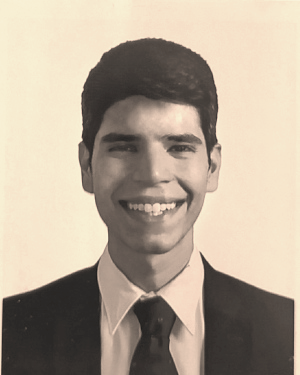
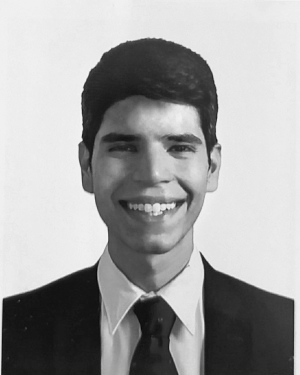
Fix-texts14

diff --git a/ingles/associates.html b/ingles/associates.html
@@ -141,7 +141,7 @@
             <div class="images">
               <img
                 class="img1 img-fluid pt-5"
-                src="../assets/images/asociado1.png"
+                src="../assets/images/asociado1.jpg"
                 alt="free Template"
               />
             </div>
@@ -175,7 +175,7 @@
             <div class="images">
               <img
                 class="img1 img-fluid pt-5"
-                src="../assets/images/asociado2.png"
+                src="../assets/images/asociado2.jpg"
                 alt="free Template"
               />
             </div>
@@ -208,7 +208,7 @@
             <div class="images">
               <img
                 class="img1 img-fluid pt-5"
-                src="../assets/images/asociado3.png"
+                src="../assets/images/asociado3.jpg"
                 alt="free Template"
               />
             </div>

diff --git a/asociados.html b/asociados.html
@@ -139,7 +139,7 @@
             <div class="images">
               <img
                 class="img1 img-fluid pt-5"
-                src="assets/images/asociado1.png"
+                src="assets/images/asociado1.jpg"
                 alt="free Template"
               />
             </div>
@@ -173,7 +173,7 @@
             <div class="images">
               <img
                 class="img1 img-fluid pt-5"
-                src="assets/images/asociado2.png"
+                src="assets/images/asociado2.jpg"
                 alt="free Template"
               />
             </div>
@@ -208,7 +208,7 @@
             <div class="images">
               <img
                 class="img1 img-fluid pt-5"
-                src="assets/images/asociado3.png"
+                src="assets/images/asociado3.jpg"
                 alt="free Template"
               />
             </div>

diff --git a/ingles/lawyers.html b/ingles/lawyers.html
@@ -141,7 +141,7 @@
             <div class="images">
               <img
                 class="img1 img-fluid pt-5"
-                src="../assets/images/abogado1.png"
+                src="../assets/images/abogado1.jpg"
                 alt="free Template"
               />
             </div>
@@ -165,7 +165,7 @@
             <div class="images">
               <img
                 class="img1 img-fluid pt-5"
-                src="../assets/images/abogado2.png"
+                src="../assets/images/abogado2.jpg"
                 alt="free Template"
               />
             </div>

diff --git a/abogados.html b/abogados.html
@@ -139,7 +139,7 @@
             <div class="images">
               <img
                 class="img1 img-fluid pt-5"
-                src="assets/images/abogado1.png"
+                src="assets/images/abogado1.jpg"
                 alt="free Template"
               />
             </div>
@@ -163,7 +163,7 @@
             <div class="images">
               <img
                 class="img1 img-fluid pt-5"
-                src="assets/images/abogado2.png"
+                src="assets/images/abogado2.jpg"
                 alt="free Template"
               />
             </div>

diff --git a/index.html b/index.html
@@ -358,7 +358,7 @@
                         <div class="card-body">
                             <h4 class="card-title mt-0 mb-2 p-1">Gerardo Fernández Villegas</h4>
                             <h6 class="card-subtitle mb-2">Socio</h6>
-                            <p><a href="gerardo_fernandez.htm">Saber más</a></p>
+                            <p><a href="gerardo_fernandez.html">Saber más</a></p>
                             <br>
                         </div>
                     </div>

diff --git a/ingles/carlos_ayala.html b/ingles/carlos_ayala.html
@@ -129,7 +129,7 @@
                 </div>
                 <div class="col-lg-5">
                     <div class="images">
-                        <img class="img1 img-fluid pt-5" src="../assets/images/Socio1.png" alt="free Template">
+                        <img class="img1 img-fluid pt-5" src="../assets/images/Imagen3.jpg" alt="free Template">
                     </div>
                 </div>
 

diff --git a/ingles/desmond_dillon.html b/ingles/desmond_dillon.html
@@ -127,7 +127,7 @@
                 </div>
                 <div class="col-lg-5">
                     <div class="images">
-                        <img class="img1 img-fluid pt-5" src="../assets/images/Socio2.png" alt="free Template">
+                        <img class="img1 img-fluid pt-5" src="../assets/images/Imagen2.jpg" alt="free Template">
                     </div>
                 </div>
 

diff --git a/ingles/rafael_chavero.html b/ingles/rafael_chavero.html
@@ -127,7 +127,7 @@
                 </div>
                 <div class="col-lg-5">
                     <div class="images">
-                        <img class="img1 img-fluid pt-5" src="../assets/images/Socio5.png" alt="free Template">
+                        <img class="img1 img-fluid pt-5" src="../assets/images/Imagen5.jpg" alt="free Template">
                     </div>
                 </div>
 

diff --git a/carlos_ayala.html b/carlos_ayala.html
@@ -130,7 +130,7 @@
                 </div>
                 <div class="col-lg-5">
                     <div class="images">
-                        <img class="img1 img-fluid pt-5" src="assets/images/Socio1.png" alt="free Template">
+                        <img class="img1 img-fluid pt-5" src="assets/images/Imagen3.jpg" alt="free Template">
                     </div>
                 </div>
 

diff --git a/desmond_dillon.html b/desmond_dillon.html
@@ -129,7 +129,7 @@
                 </div>
                 <div class="col-lg-5">
                     <div class="images">
-                        <img class="img1 img-fluid pt-5" src="assets/images/Socio2.png" alt="free Template">
+                        <img class="img1 img-fluid pt-5" src="assets/images/Imagen2.jpg" alt="free Template">
                     </div>
                 </div>
 

diff --git a/rafael_chavero.html b/rafael_chavero.html
@@ -128,7 +128,7 @@
                 </div>
                 <div class="col-lg-5">
                     <div class="images">
-                        <img class="img1 img-fluid pt-5" src="assets/images/Socio5.png" alt="free Template">
+                        <img class="img1 img-fluid pt-5" src="assets/images/Imagen5.jpg" alt="free Template">
                     </div>
                 </div>
 
